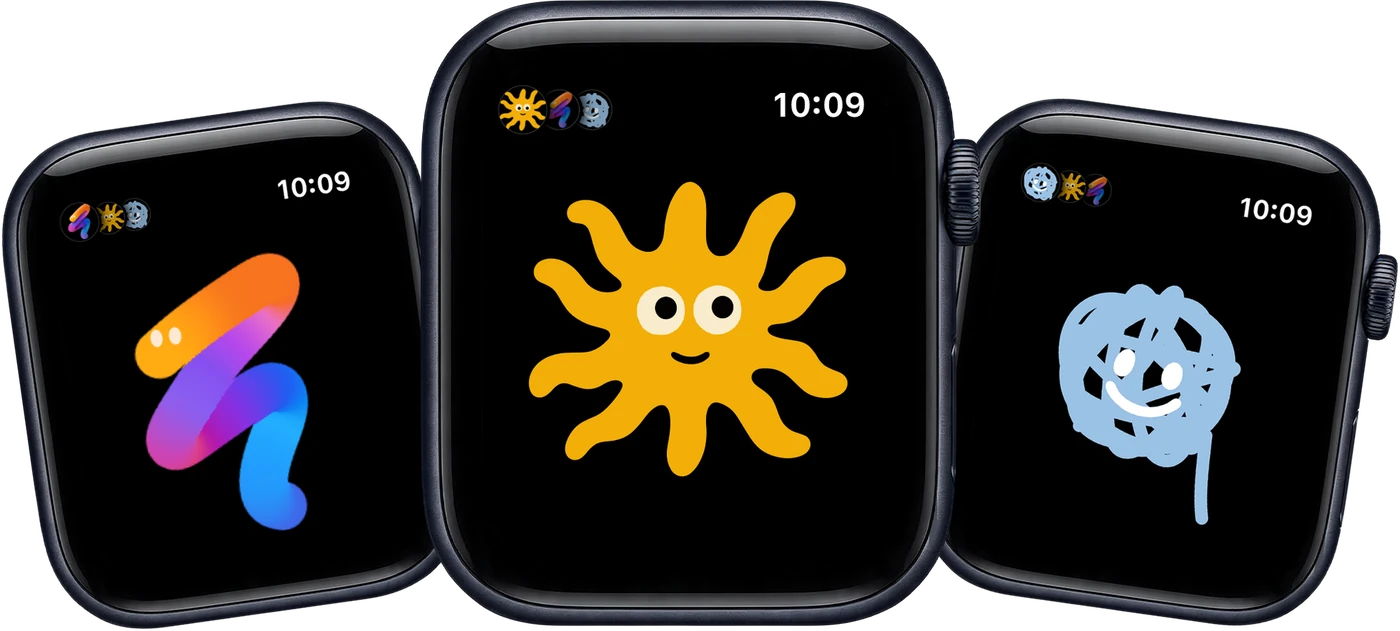
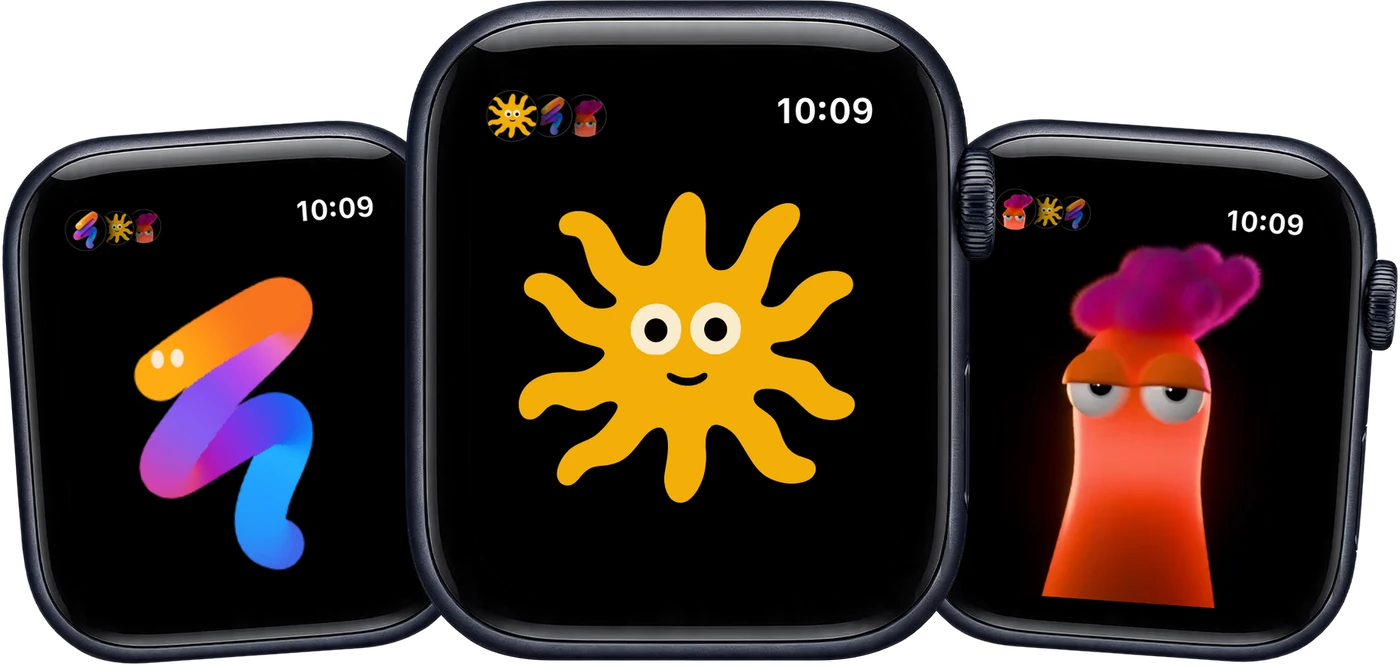
README: Stretch in place of Tangle at the top, the side watches turned less and closer in

diff --git a/README.md b/README.md
@@ -13,7 +13,7 @@
 </p>
 
 <p align="center">
-  <img src="docs/media/readme/watches.webp" width="720" alt="Three Apple Watches: Noodle, Ray and Tangle">
+  <img src="docs/media/readme/watches.webp" width="720" alt="Three Apple Watches: Noodle, Ray and Stretch">
 </p>
 
 <p align="center">
